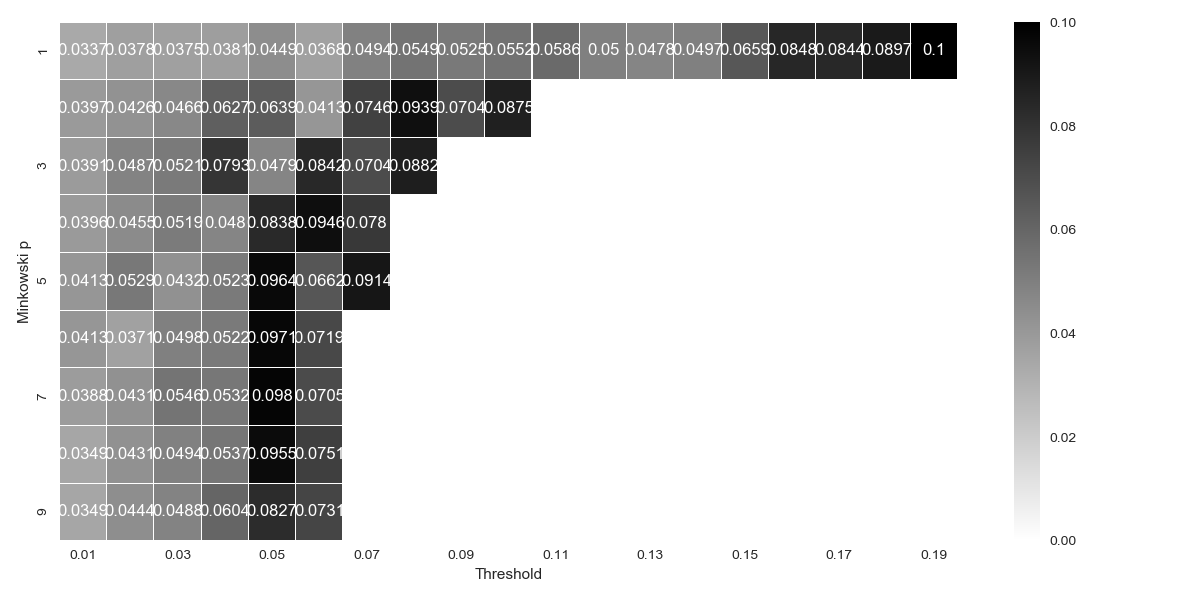
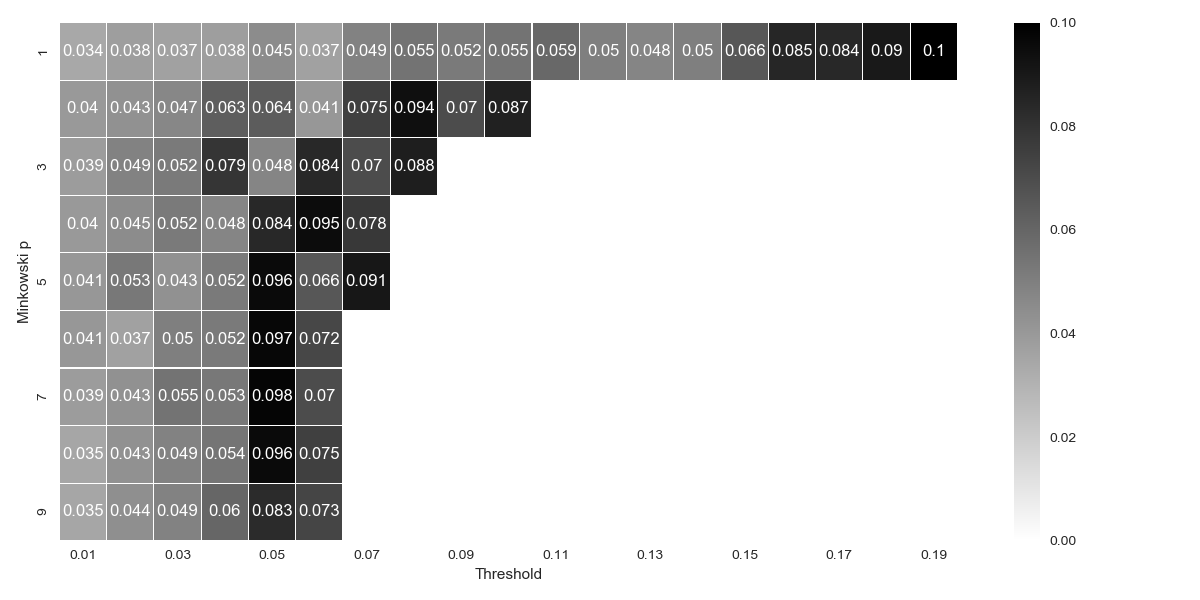
Updated heatmap

diff --git a/Strategy.py b/Strategy.py
@@ -13,9 +13,12 @@ class Strategy:
     def __init__(self, name, dates, tickers, etf_returns, target_weights, starting_cash, commission):
         """
 
-        :param name:
-        :param dates:
-        :param tickers:
+        :param name: Name of the strategy.
+        :type name: string
+        :param dates: A datetime index of the dates for which the strategy will be backtested
+        :type dates: pd.DatetimeIndex
+        :param tickers: A
+        :type tickers: list
         :param etf_returns:
         :param target_weights:
         :param starting_cash:
@@ -60,7 +63,8 @@ class Strategy:
 
         previous_values = self.df.loc[date, 'values'].copy()
         position_value = eod_portfolio_value * self.target_weights
-        trading_cost = abs(eod_values.div(eod_portfolio_value) - self.target_weights) * eod_portfolio_value * self.commission
+        trading_cost = abs(eod_values.div(eod_portfolio_value) - self.target_weights) * eod_portfolio_value * \
+                       self.commission
         current_values = position_value - trading_cost
         self.df.loc[date, 'values'] = current_values.values
         future_values = self.etf_returns.loc[date:, 'cumulative'].div(
@@ -75,12 +79,12 @@ class Strategy:
 
     def trade(self, minkowski_p, max_drift):
         """
-            Main method to implement the specified trading strategy. The strategy will rebalance whenever the max_drift
-            is less than the allowed drift based on the Minkowski p-value and the specified target weights.
-            :param minkowski_p: The p-value for the Minkowski distance measure
-            :param max_drift: The max allowed percentage point drift from the strategies ideal weighting
-            :return: None
-            """
+        Main method to implement the specified trading strategy. The strategy will rebalance whenever the max_drift
+        is less than the allowed drift based on the Minkowski p-value and the specified target weights.
+        :param minkowski_p: The p-value for the Minkowski distance measure
+        :param max_drift: The max allowed percentage point drift from the strategies ideal weighting
+        :return: None
+        """
         current_drift = partial(minkowski_distance, arr_2=self.target_weights, p=minkowski_p)
         for date in self.dates[1:]:
             # If the previous-day close allocation is out of tolerance..

diff --git a/generate_heatmap.py b/generate_heatmap.py
@@ -31,10 +31,13 @@ def generate_heatmap(returns_df, target_weights, starting_cash, commission):
 
     buy_and_hold = Strategy('buy_and_hold', dates, tickers, returns_df, target_weights, starting_cash, commission)
     buy_and_hold_sharpe = buy_and_hold.summary_stats()[4]
-    sharpe_df -= round(buy_and_hold_sharpe, 3)
+    sharpe_df -= buy_and_hold_sharpe
+    mask = sharpe_df == 0
+    sharpe_df = sharpe_df.round(3)
+
     sharpe_df.to_csv(os.path.join('datasets', 'sharpe.csv'))
 
-    mask = sharpe_df == 0
+
 
     fig, ax = plt.subplots(figsize=(12, 6))
     sns.heatmap(sharpe_df, linewidths=0.1, ax=ax, annot=True, fmt='.3g', cmap="gray_r", xticklabels=2, yticklabels=2,
